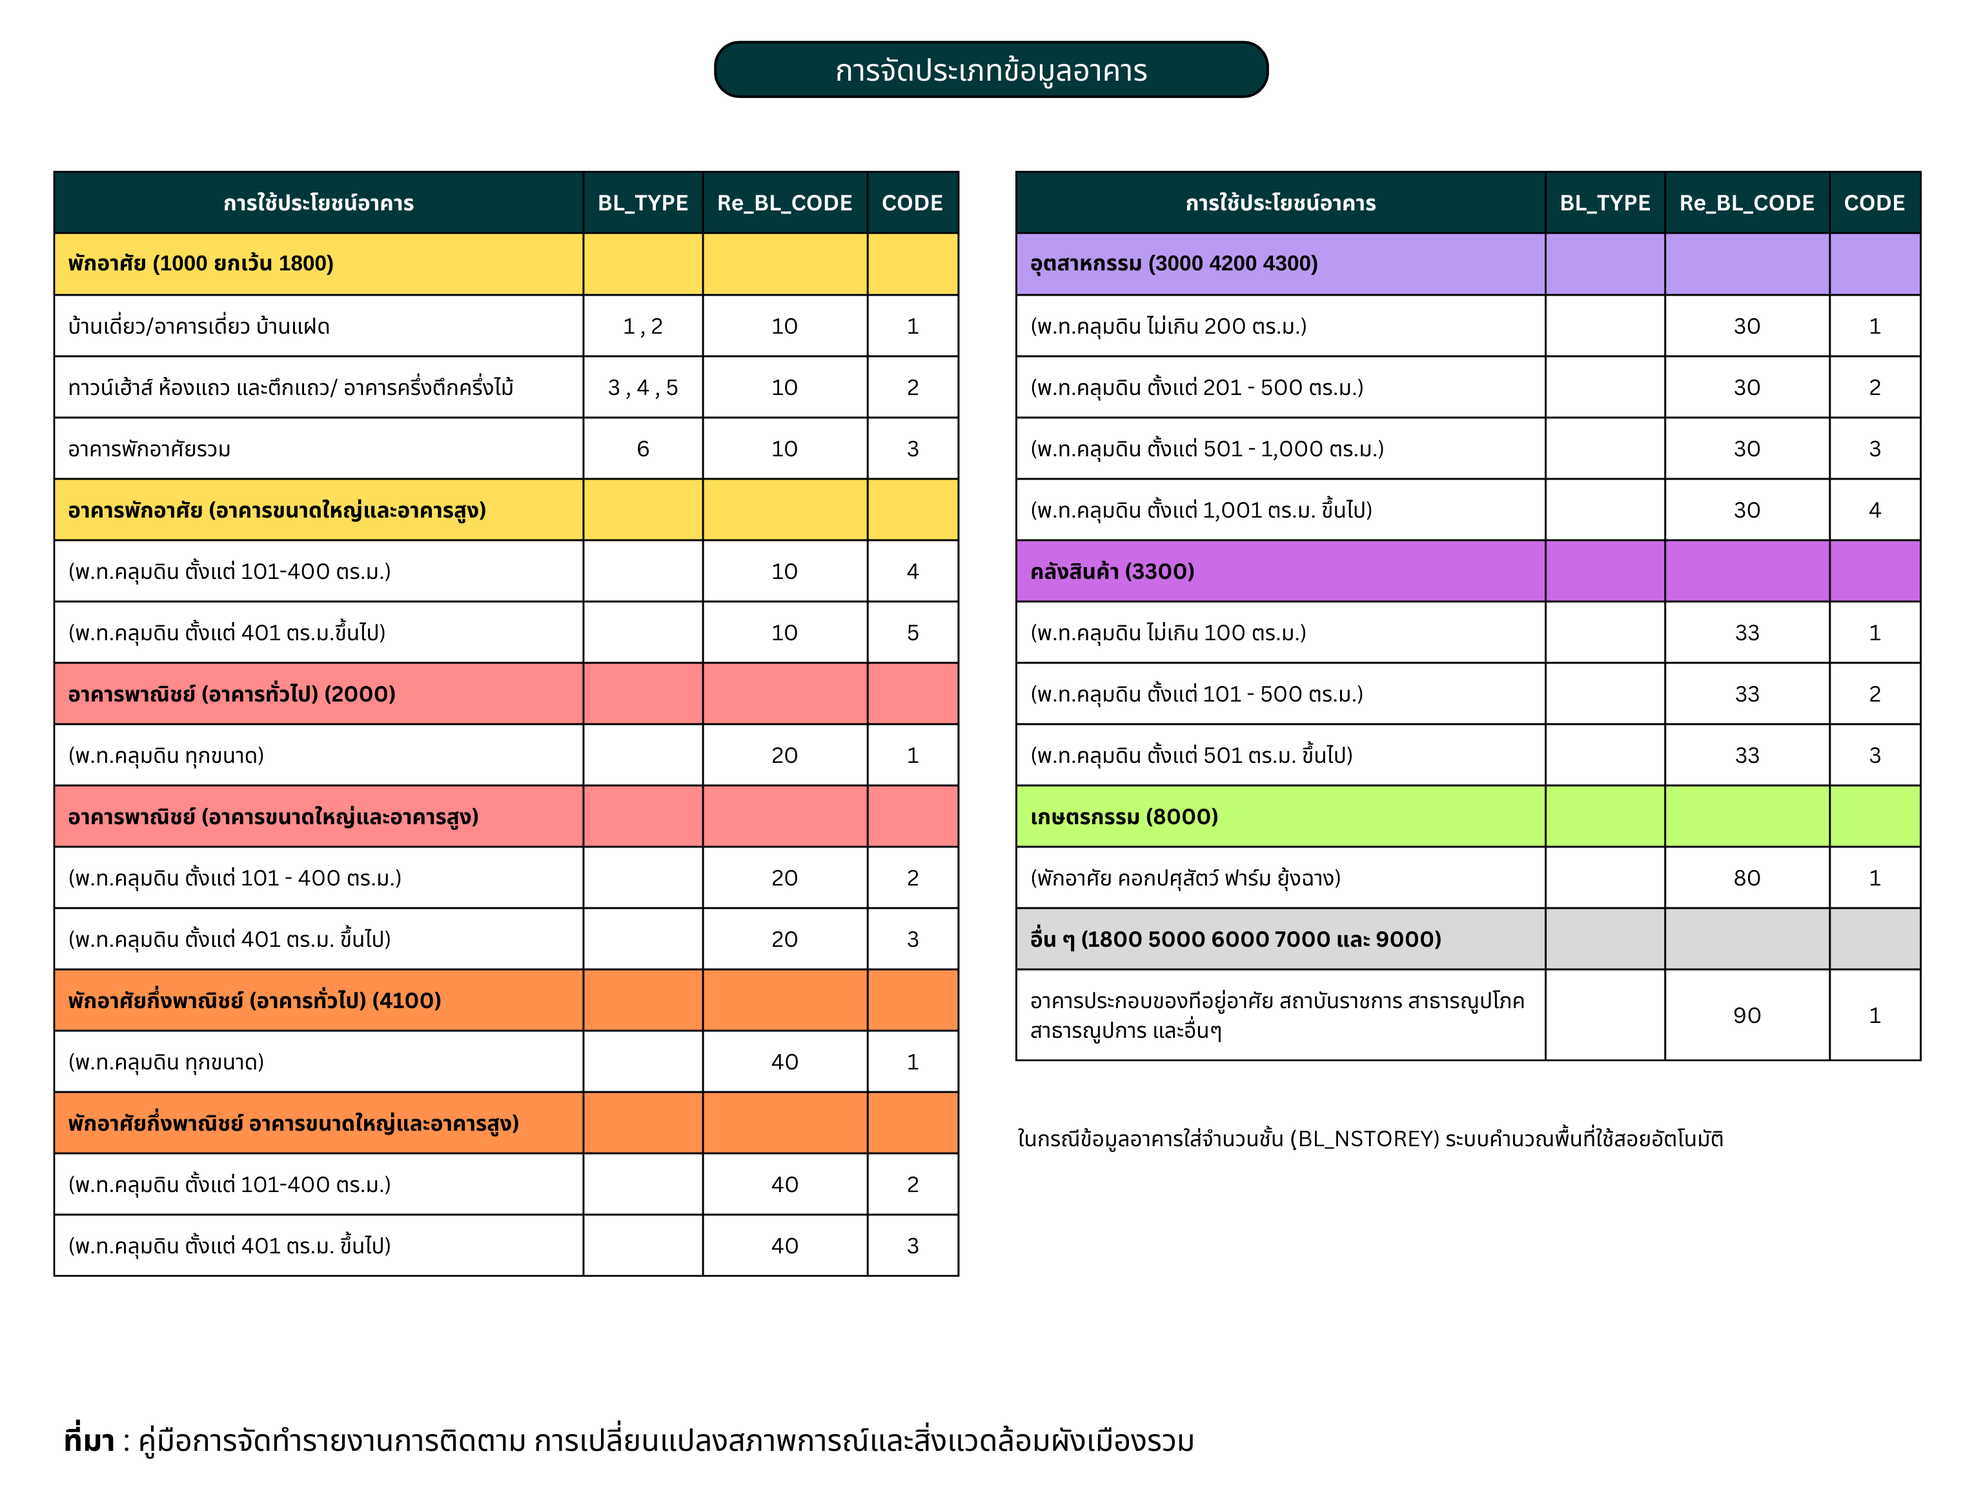
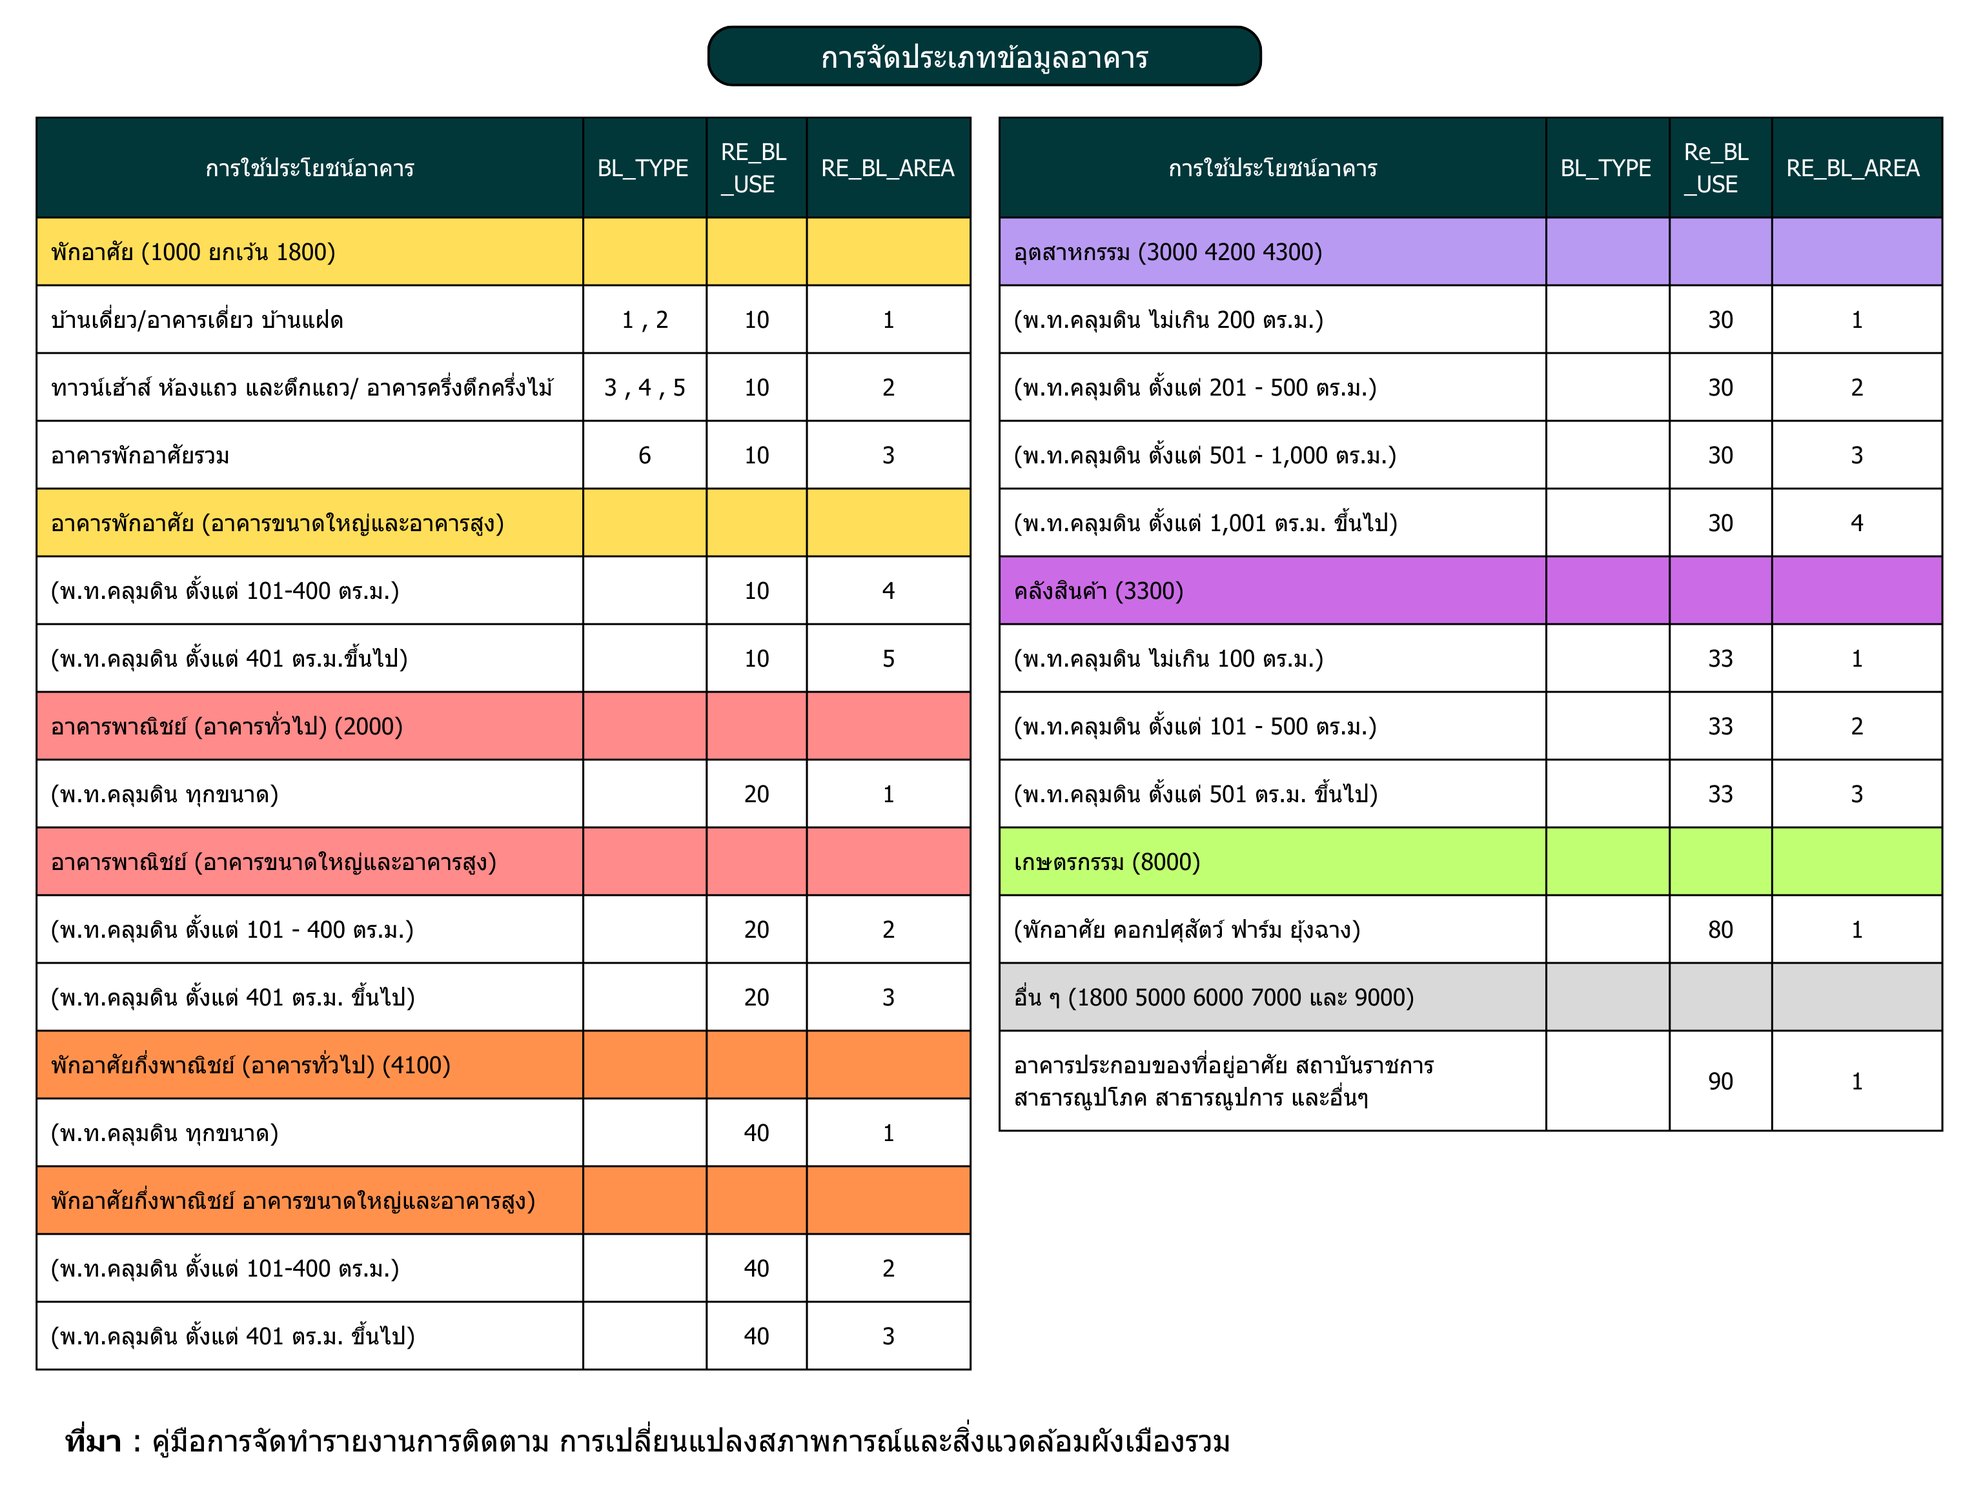
Add files via upload

diff --git a/page2.html b/page2.html
@@ -205,7 +205,7 @@
                 </a>
 
                 <div class="mt-4">
-                    <div class="section-title">นำเข้าไฟล์อาคาร</div>
+                    <div class="section-title">ไฟล์อาคาร (Excel)</div>
                     <div class="file-input-container">
                         <input type="file" id="excelFile" accept=".xlsx, .xls" class="hidden" onchange="updateFileName(this)">
                         <button onclick="document.getElementById('excelFile').click()" class="file-button">
@@ -226,7 +226,7 @@
                 </div>
 
                 <button id="exportButton" class="process-button d-none">
-                    นำออกไฟล์ Excel
+                    นำออกไฟล์อาคาร (Excel)
                 </button>
             </div>
         </div>
@@ -240,12 +240,13 @@
             </svg>
         </a>
         <a href="page3.html" class="landuse-button">
-            Landuse Calculation
+            Calculate Landuse
         </a>
     </div>
 
+
     <script>
-const _0x1a9db1=_0x3c55;function _0x3c55(_0x45786f,_0x158489){const _0x489d7a=_0x489d();return _0x3c55=function(_0x3c55f7,_0x599801){_0x3c55f7=_0x3c55f7-0x14f;let _0x5b8721=_0x489d7a[_0x3c55f7];return _0x5b8721;},_0x3c55(_0x45786f,_0x158489);}(function(_0x3c7842,_0x1aa080){const _0x55f873=_0x3c55,_0x32bf2a=_0x3c7842();while(!![]){try{const _0x1abb1f=parseInt(_0x55f873(0x16b))/0x1*(-parseInt(_0x55f873(0x154))/0x2)+parseInt(_0x55f873(0x155))/0x3*(-parseInt(_0x55f873(0x17e))/0x4)+parseInt(_0x55f873(0x150))/0x5*(-parseInt(_0x55f873(0x151))/0x6)+parseInt(_0x55f873(0x160))/0x7*(-parseInt(_0x55f873(0x165))/0x8)+parseInt(_0x55f873(0x177))/0x9+parseInt(_0x55f873(0x170))/0xa*(-parseInt(_0x55f873(0x15f))/0xb)+-parseInt(_0x55f873(0x174))/0xc*(-parseInt(_0x55f873(0x163))/0xd);if(_0x1abb1f===_0x1aa080)break;else _0x32bf2a['push'](_0x32bf2a['shift']());}catch(_0x51307f){_0x32bf2a['push'](_0x32bf2a['shift']());}}}(_0x489d,0x7762b));const reuse2Data={'1000':'10','1100':'10','1101':'10','1102':'10','1103':'10','1121':'10','1122':'10','1123':'10','1131':'10','1132':'10','1200':'10','1300':'10','1310':'10','1320':'10','1330':'10','1340':'10','1350':'10','1800':'90','2000':'20','2100':'20','2200':'20','2210':'20','2220':'20','2230':'20','2231':'20','2232':'20','2233':'20','2234':'20','2240':'20','2241':'20','2250':'20','2251':'20','2260':'20','2270':'20','2280':'20','2300':'20','2301':'20','2302':'20','2400':'20','2410':'20','2420':'20','2480':'20','2500':'20','2800':'20','3000':'30','3100':'30','3110':'30','3120':'30','3300':'33','3310':'33','3311':'33','3321':'33','3322':'33','3800':'30','4100':'41','4110':'41','4120':'41','4121':'41','4122':'41','4123':'41','4180':'41','4200':'30','4300':'30','5000':'90','5130':'90','5140':'90','5150':'90','5160':'90','5180':'90','5200':'90','5210':'90','5220':'90','5230':'90','5300':'90','5310':'90','5320':'90','5330':'90','5400':'90','5410':'90','5420':'90','5430':'90','5440':'90','5500':'90','5510':'90','5520':'90','5800':'90','6000':'90','6100':'90','6105':'90','6110':'90','6120':'90','6130':'90','6140':'90','6141':'90','6142':'90','6143':'90','6150':'90','6160':'90','6180':'90','6200':'90','6210':'90','6220':'90','6230':'90','6240':'90','6250':'90','6260':'90','6270':'90','6280':'90','6300':'90','6310':'90','6320':'90','6330':'90','6340':'90','6350':'90','6360':'90','6370':'90','6380':'90','6381':'90','6382':'90','6383':'90','6400':'90','6500':'90','6510':'90','6530':'90','6580':'90','6600':'90','6610':'90','6620':'90','6630':'90','6640':'90','6650':'90','6660':'90','6800':'90','6830':'90','6831':'90','7000':'90','7200':'90','7210':'90','7220':'90','7300':'90','7310':'90','7320':'90','7321':'90','7322':'90','7323':'90','7324':'90','7330':'90','7380':'90','8000':'80','8170':'80','8180':'80','8190':'80','8310':'80','8500':'80','9991':'90','9993':'90','9998':'90','9999':'90'};let processedData=[];document[_0x1a9db1(0x17b)](_0x1a9db1(0x156))[_0x1a9db1(0x15a)]('click',processExcel),document[_0x1a9db1(0x17b)](_0x1a9db1(0x166))[_0x1a9db1(0x15a)]('click',exportToExcel);function processExcel(){const _0x1c97fd=_0x1a9db1,_0x4544d6=document['getElementById'](_0x1c97fd(0x169)),_0xd90a84=_0x4544d6[_0x1c97fd(0x16c)][0x0];if(!_0xd90a84){alert(_0x1c97fd(0x16e));return;}const _0x22c48b=new FileReader();_0x22c48b[_0x1c97fd(0x15e)]=function(_0x53a1f6){const _0x2d1aa1=_0x1c97fd,_0x1aa217=new Uint8Array(_0x53a1f6[_0x2d1aa1(0x17d)][_0x2d1aa1(0x16f)]),_0x547057=XLSX['read'](_0x1aa217,{'type':_0x2d1aa1(0x162)}),_0x5b9c97=_0x547057[_0x2d1aa1(0x15c)][0x0],_0x2bc676=_0x547057[_0x2d1aa1(0x159)][_0x5b9c97],_0x19aa15=XLSX[_0x2d1aa1(0x179)][_0x2d1aa1(0x167)](_0x2bc676);processData(_0x19aa15);},_0x22c48b['readAsArrayBuffer'](_0xd90a84);}function processData(_0x43985a){const _0x316aaa=_0x1a9db1,_0x26dccf=document[_0x316aaa(0x17b)](_0x316aaa(0x15b)),_0x1ddbe3=document['getElementById'](_0x316aaa(0x152));_0x1ddbe3[_0x316aaa(0x157)]['remove'](_0x316aaa(0x161)),processedData=_0x43985a[_0x316aaa(0x17a)]((_0x2a0749,_0x12a956)=>{const _0x50d957=_0x316aaa,_0x5b27e5=Math[_0x50d957(0x176)]((_0x12a956+0x1)/_0x43985a['length']*0x64);_0x26dccf[_0x50d957(0x16d)][_0x50d957(0x17c)]=_0x5b27e5+'%',_0x26dccf[_0x50d957(0x16a)](_0x50d957(0x171),_0x5b27e5),_0x26dccf['textContent']=_0x5b27e5+'%';const _0x1f854e={..._0x2a0749};return _0x1f854e[_0x50d957(0x168)]=_0x2a0749['BL_AREA']*_0x2a0749[_0x50d957(0x173)],_0x1f854e[_0x50d957(0x14f)]=reuse2Data[_0x2a0749[_0x50d957(0x15d)]]||'',_0x1f854e['code']=determineCode(_0x1f854e),_0x1f854e;}),document[_0x316aaa(0x17b)](_0x316aaa(0x166))[_0x316aaa(0x157)][_0x316aaa(0x153)](_0x316aaa(0x161));}function _0x489d(){const _0xd84e1f=['processed_building_data.xlsx','24lNLrPT','exportButton','sheet_to_json','พื้นที่ใช้สอย','excelFile','setAttribute','16476RuGjFV','files','style','กรุณาเลือกไฟล์\x20Excel','result','8380040CgrDHa','aria-valuenow','fileName','BL_NSTOREY','36046764LkEyWy','textContent','round','4414590KrGeqC','ProcessedData','utils','map','getElementById','width','target','2260JNcYzD','Re_BL_CODE','25HOyPiS','862842WHmGfv','progressContainer','remove','74UKREbS','2901gbLDXn','processButton','classList','book_append_sheet','Sheets','addEventListener','progressBar','SheetNames','BL_USE','onload','11WKyHCj','682262NMxeSK','d-none','array','13nyNqxL'];_0x489d=function(){return _0xd84e1f;};return _0x489d();}function determineCode(_0x2f1c95){const {Re_BL_CODE:_0x31dd1d,BL_TYPE:_0x4bec07,BL_AREA:_0x54a29b,BL_NSTOREY:_0x22ec4a}=_0x2f1c95,_0x11fb31=_0x2f1c95['พื้นที่ใช้สอย'];if(_0x11fb31>=0x7d0){if(_0x31dd1d==='10'&&_0x54a29b>=0x65&&_0x54a29b<=0x190)return 0x4;if(_0x31dd1d==='10'&&_0x54a29b>=0x191)return 0x5;if(_0x31dd1d==='20'&&_0x54a29b>=0x65&&_0x54a29b<=0x190)return 0x2;if(_0x31dd1d==='20'&&_0x54a29b>=0x191)return 0x3;if(_0x31dd1d==='41'&&_0x54a29b>=0x65&&_0x54a29b<=0x190)return 0x2;if(_0x31dd1d==='41'&&_0x54a29b>=0x191)return 0x3;}if(_0x11fb31>=0x3e8&&_0x22ec4a>=0x5){if(_0x31dd1d==='10'&&_0x54a29b>=0x65&&_0x54a29b<=0x190)return 0x4;if(_0x31dd1d==='10'&&_0x54a29b>=0x191)return 0x5;if(_0x31dd1d==='20'&&_0x54a29b>=0x65&&_0x54a29b<=0x190)return 0x2;if(_0x31dd1d==='20'&&_0x54a29b>=0x191)return 0x3;if(_0x31dd1d==='41'&&_0x54a29b>=0x65&&_0x54a29b<=0x190)return 0x2;if(_0x31dd1d==='41'&&_0x54a29b>=0x191)return 0x3;}if(_0x22ec4a>=0x8){if(_0x31dd1d==='10'&&_0x54a29b>=0x65&&_0x54a29b<=0x190)return 0x4;if(_0x31dd1d==='10'&&_0x54a29b>=0x191)return 0x5;if(_0x31dd1d==='20'&&_0x54a29b>=0x65&&_0x54a29b<=0x190)return 0x2;if(_0x31dd1d==='20'&&_0x54a29b>=0x191)return 0x3;if(_0x31dd1d==='41'&&_0x54a29b>=0x65&&_0x54a29b<=0x190)return 0x2;if(_0x31dd1d==='41'&&_0x54a29b>=0x191)return 0x3;}if(_0x31dd1d==='10'){if(_0x4bec07===0x1||_0x4bec07===0x2)return 0x1;if(_0x4bec07===0x3||_0x4bec07===0x4||_0x4bec07===0x5)return 0x2;if(_0x4bec07===0x6||_0x4bec07===0x7||_0x4bec07===0x8||_0x4bec07===0x62)return 0x3;}if(_0x31dd1d==='20'||_0x31dd1d==='41')return 0x1;if(_0x31dd1d==='30'){if(_0x54a29b<=0xc8)return 0x1;if(_0x54a29b>0xc8&&_0x54a29b<=0x1f4)return 0x2;if(_0x54a29b>0x1f4&&_0x54a29b<=0x3e8)return 0x3;if(_0x54a29b>0x3e8)return 0x4;}if(_0x31dd1d==='33'){if(_0x54a29b<=0x64)return 0x1;if(_0x54a29b>0x64&&_0x54a29b<=0x1f4)return 0x2;if(_0x54a29b>0x1f4)return 0x3;}if(_0x31dd1d==='80'||_0x31dd1d==='90')return 0x1;return 0x0;}function updateFileName(_0x58790e){const _0x558fd3=_0x1a9db1,_0x6e889e=document['getElementById'](_0x558fd3(0x172));_0x58790e['files']&&_0x58790e[_0x558fd3(0x16c)][0x0]?_0x6e889e[_0x558fd3(0x175)]=_0x58790e[_0x558fd3(0x16c)][0x0]['name']:_0x6e889e[_0x558fd3(0x175)]='';}function exportToExcel(){const _0x529ed6=_0x1a9db1,_0x53e7f0=XLSX[_0x529ed6(0x179)]['json_to_sheet'](processedData),_0xb0baa0=XLSX[_0x529ed6(0x179)]['book_new']();XLSX[_0x529ed6(0x179)][_0x529ed6(0x158)](_0xb0baa0,_0x53e7f0,_0x529ed6(0x178)),XLSX['writeFile'](_0xb0baa0,_0x529ed6(0x164));}
+function _0x57a0(_0x2d3c4c,_0x1fd52d){const _0x2261e4=_0x2261();return _0x57a0=function(_0x57a0f0,_0x48a765){_0x57a0f0=_0x57a0f0-0x190;let _0xad18f4=_0x2261e4[_0x57a0f0];return _0xad18f4;},_0x57a0(_0x2d3c4c,_0x1fd52d);}const _0x243d32=_0x57a0;(function(_0x2388e1,_0x2a2ec3){const _0x3975ee=_0x57a0,_0x3ee0ab=_0x2388e1();while(!![]){try{const _0x3a58e6=parseInt(_0x3975ee(0x1a4))/0x1*(parseInt(_0x3975ee(0x1bb))/0x2)+-parseInt(_0x3975ee(0x1a0))/0x3+parseInt(_0x3975ee(0x1a8))/0x4+parseInt(_0x3975ee(0x19f))/0x5+parseInt(_0x3975ee(0x1a2))/0x6*(parseInt(_0x3975ee(0x190))/0x7)+-parseInt(_0x3975ee(0x1b9))/0x8*(-parseInt(_0x3975ee(0x1a5))/0x9)+-parseInt(_0x3975ee(0x1a3))/0xa;if(_0x3a58e6===_0x2a2ec3)break;else _0x3ee0ab['push'](_0x3ee0ab['shift']());}catch(_0x464149){_0x3ee0ab['push'](_0x3ee0ab['shift']());}}}(_0x2261,0x3e194));const reuse2Data={'1000':'10','1100':'10','1101':'10','1102':'10','1103':'10','1121':'10','1122':'10','1123':'10','1131':'10','1132':'10','1200':'10','1300':'10','1310':'10','1320':'10','1330':'10','1340':'10','1350':'10','1800':'90','2000':'20','2100':'20','2200':'20','2210':'20','2220':'20','2230':'20','2231':'20','2232':'20','2233':'20','2234':'20','2240':'20','2241':'20','2250':'20','2251':'20','2260':'20','2270':'20','2280':'20','2300':'20','2301':'20','2302':'20','2400':'20','2410':'20','2420':'20','2480':'20','2500':'20','2800':'20','3000':'30','3100':'30','3110':'30','3120':'30','3300':'33','3310':'33','3311':'33','3321':'33','3322':'33','3800':'30','4100':'41','4110':'41','4120':'41','4121':'41','4122':'41','4123':'41','4180':'41','4200':'30','4300':'30','5000':'90','5130':'90','5140':'90','5150':'90','5160':'90','5180':'90','5200':'90','5210':'90','5220':'90','5230':'90','5300':'90','5310':'90','5320':'90','5330':'90','5400':'90','5410':'90','5420':'90','5430':'90','5440':'90','5500':'90','5510':'90','5520':'90','5800':'90','6000':'90','6100':'90','6105':'90','6110':'90','6120':'90','6130':'90','6140':'90','6141':'90','6142':'90','6143':'90','6150':'90','6160':'90','6180':'90','6200':'90','6210':'90','6220':'90','6230':'90','6240':'90','6250':'90','6260':'90','6270':'90','6280':'90','6300':'90','6310':'90','6320':'90','6330':'90','6340':'90','6350':'90','6360':'90','6370':'90','6380':'90','6381':'90','6382':'90','6383':'90','6400':'90','6500':'90','6510':'90','6530':'90','6580':'90','6600':'90','6610':'90','6620':'90','6630':'90','6640':'90','6650':'90','6660':'90','6800':'90','6830':'90','6831':'90','7000':'90','7200':'90','7210':'90','7220':'90','7300':'90','7310':'90','7320':'90','7321':'90','7322':'90','7323':'90','7324':'90','7330':'90','7380':'90','8000':'80','8170':'80','8180':'80','8190':'80','8310':'80','8500':'80','9991':'90','9993':'90','9998':'90','9999':'90'};let processedData=[];function _0x2261(){const _0x145090=['processButton','2lfeuEV','style','262073gETYCT','d-none','progressContainer','aria-valuenow','Sheets','bldg_reclass.xlsx','addEventListener','excelFile','array','progressBar','round','classList','พื้นที่การใช้ประโยชน์อาคารรวม','utils','textContent','668690bimyZR','362472oRdWdh','files','36pPuGUd','7813290GcuMaI','165782ENyYJe','1719nVfunS','BL_AREA','exportButton','1386476qNiLYb','writeFile','book_new','json_to_sheet','sheet_to_json','SheetNames','RE_BL_AREA','BL_NSTOREY','read','length','กรุณาเลือกไฟล์\x20Excel','getElementById','remove','book_append_sheet','width','RE_BL_USE','map','11968PGvIBR'];_0x2261=function(){return _0x145090;};return _0x2261();}document[_0x243d32(0x1b3)](_0x243d32(0x1ba))[_0x243d32(0x196)]('click',processExcel),document[_0x243d32(0x1b3)](_0x243d32(0x1a7))[_0x243d32(0x196)]('click',exportToExcel);function processExcel(){const _0x207945=_0x243d32,_0x5edc2d=document['getElementById'](_0x207945(0x197)),_0x41154e=_0x5edc2d[_0x207945(0x1a1)][0x0];if(!_0x41154e){alert(_0x207945(0x1b2));return;}const _0x256ace=new FileReader();_0x256ace['onload']=function(_0x5d1dae){const _0x2bdd39=_0x207945,_0x4037e8=new Uint8Array(_0x5d1dae['target']['result']),_0x1c31ac=XLSX[_0x2bdd39(0x1b0)](_0x4037e8,{'type':_0x2bdd39(0x198)}),_0x338d73=_0x1c31ac[_0x2bdd39(0x1ad)][0x0],_0x148390=_0x1c31ac[_0x2bdd39(0x194)][_0x338d73],_0x301f89=XLSX[_0x2bdd39(0x19d)][_0x2bdd39(0x1ac)](_0x148390);processData(_0x301f89);},_0x256ace['readAsArrayBuffer'](_0x41154e);}function processData(_0x2b8310){const _0x242118=_0x243d32,_0x3b36fe=document[_0x242118(0x1b3)](_0x242118(0x199)),_0x29813e=document[_0x242118(0x1b3)](_0x242118(0x192));_0x29813e[_0x242118(0x19b)][_0x242118(0x1b4)](_0x242118(0x191)),processedData=_0x2b8310[_0x242118(0x1b8)]((_0x84674,_0x4a4219)=>{const _0x2cd0d6=_0x242118,_0x21a0d6=Math[_0x2cd0d6(0x19a)]((_0x4a4219+0x1)/_0x2b8310[_0x2cd0d6(0x1b1)]*0x64);_0x3b36fe[_0x2cd0d6(0x1bc)][_0x2cd0d6(0x1b6)]=_0x21a0d6+'%',_0x3b36fe['setAttribute'](_0x2cd0d6(0x193),_0x21a0d6),_0x3b36fe[_0x2cd0d6(0x19e)]=_0x21a0d6+'%';const _0x391021={..._0x84674};return _0x391021[_0x2cd0d6(0x19c)]=_0x84674[_0x2cd0d6(0x1a6)]*_0x84674[_0x2cd0d6(0x1af)],_0x391021[_0x2cd0d6(0x1b7)]=reuse2Data[_0x84674['BL_USE']]||'',_0x391021[_0x2cd0d6(0x1ae)]=determineCode(_0x391021),_0x391021;}),document[_0x242118(0x1b3)](_0x242118(0x1a7))[_0x242118(0x19b)][_0x242118(0x1b4)](_0x242118(0x191));}function determineCode(_0x4fbbb0){const _0x5eeb41=_0x243d32,{RE_BL_USE:_0x66f078,BL_TYPE:_0xfc71f1,BL_AREA:_0x1b6855,BL_NSTOREY:_0x4ea562}=_0x4fbbb0,_0x5ba917=_0x4fbbb0[_0x5eeb41(0x19c)];if(_0x5ba917>=0x7d0){if(_0x66f078==='10'&&_0x1b6855>=0x65&&_0x1b6855<=0x190)return 0x4;if(_0x66f078==='10'&&_0x1b6855>=0x191)return 0x5;if(_0x66f078==='20'&&_0x1b6855>=0x65&&_0x1b6855<=0x190)return 0x2;if(_0x66f078==='20'&&_0x1b6855>=0x191)return 0x3;if(_0x66f078==='41'&&_0x1b6855>=0x65&&_0x1b6855<=0x190)return 0x2;if(_0x66f078==='41'&&_0x1b6855>=0x191)return 0x3;}if(_0x5ba917>=0x3e8&&_0x4ea562>=0x5){if(_0x66f078==='10'&&_0x1b6855>=0x65&&_0x1b6855<=0x190)return 0x4;if(_0x66f078==='10'&&_0x1b6855>=0x191)return 0x5;if(_0x66f078==='20'&&_0x1b6855>=0x65&&_0x1b6855<=0x190)return 0x2;if(_0x66f078==='20'&&_0x1b6855>=0x191)return 0x3;if(_0x66f078==='41'&&_0x1b6855>=0x65&&_0x1b6855<=0x190)return 0x2;if(_0x66f078==='41'&&_0x1b6855>=0x191)return 0x3;}if(_0x4ea562>=0x8){if(_0x66f078==='10'&&_0x1b6855>=0x65&&_0x1b6855<=0x190)return 0x4;if(_0x66f078==='10'&&_0x1b6855>=0x191)return 0x5;if(_0x66f078==='20'&&_0x1b6855>=0x65&&_0x1b6855<=0x190)return 0x2;if(_0x66f078==='20'&&_0x1b6855>=0x191)return 0x3;if(_0x66f078==='41'&&_0x1b6855>=0x65&&_0x1b6855<=0x190)return 0x2;if(_0x66f078==='41'&&_0x1b6855>=0x191)return 0x3;}if(_0x66f078==='10'){if(_0xfc71f1===0x1||_0xfc71f1===0x2)return 0x1;if(_0xfc71f1===0x3||_0xfc71f1===0x4||_0xfc71f1===0x5)return 0x2;if(_0xfc71f1===0x6)return 0x3;}if(_0x66f078==='20'||_0x66f078==='41')return 0x1;if(_0x66f078==='30'){if(_0x1b6855<=0xc8)return 0x1;if(_0x1b6855>0xc8&&_0x1b6855<=0x1f4)return 0x2;if(_0x1b6855>0x1f4&&_0x1b6855<=0x3e8)return 0x3;if(_0x1b6855>0x3e8)return 0x4;}if(_0x66f078==='33'){if(_0x1b6855<=0x64)return 0x1;if(_0x1b6855>0x64&&_0x1b6855<=0x1f4)return 0x2;if(_0x1b6855>0x1f4)return 0x3;}if(_0x66f078==='80'||_0x66f078==='90')return 0x1;return 0x0;}function exportToExcel(){const _0x1da369=_0x243d32,_0x496a04=XLSX[_0x1da369(0x19d)][_0x1da369(0x1ab)](processedData),_0x59081b=XLSX['utils'][_0x1da369(0x1aa)]();XLSX['utils'][_0x1da369(0x1b5)](_0x59081b,_0x496a04,'ProcessedData'),XLSX[_0x1da369(0x1a9)](_0x59081b,_0x1da369(0x195));}function updateFileName(_0x3a177a){const _0x5665e8=_0x243d32,_0x3c6b7c=document['getElementById']('fileName');_0x3a177a[_0x5665e8(0x1a1)]&&_0x3a177a[_0x5665e8(0x1a1)][0x0]?_0x3c6b7c['textContent']=_0x3a177a['files'][0x0]['name']:_0x3c6b7c[_0x5665e8(0x19e)]='';}
     </script>
 </body>
 </html>
